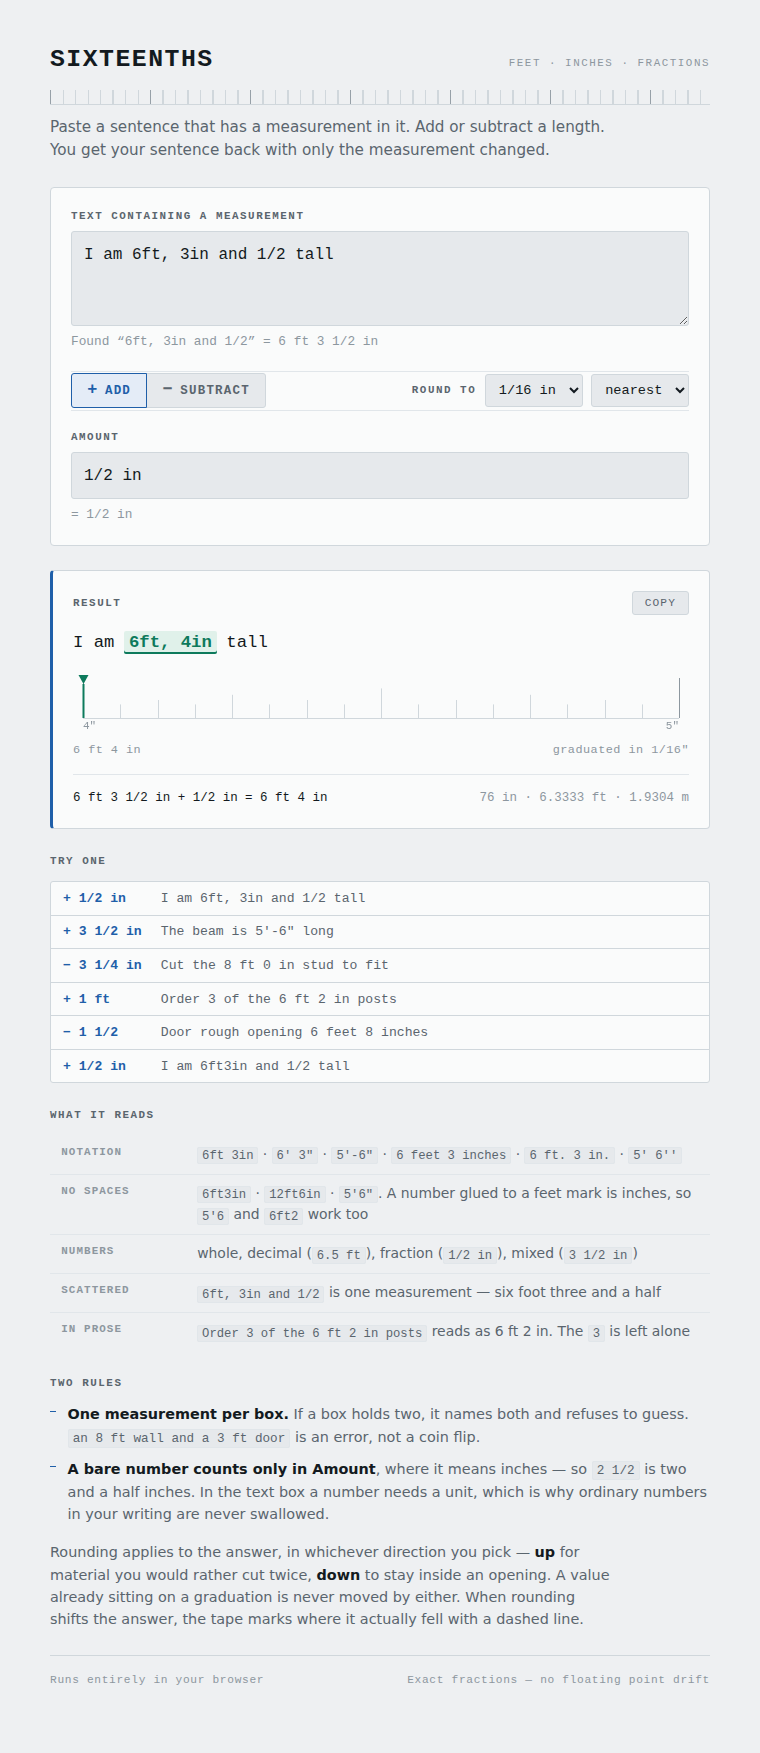
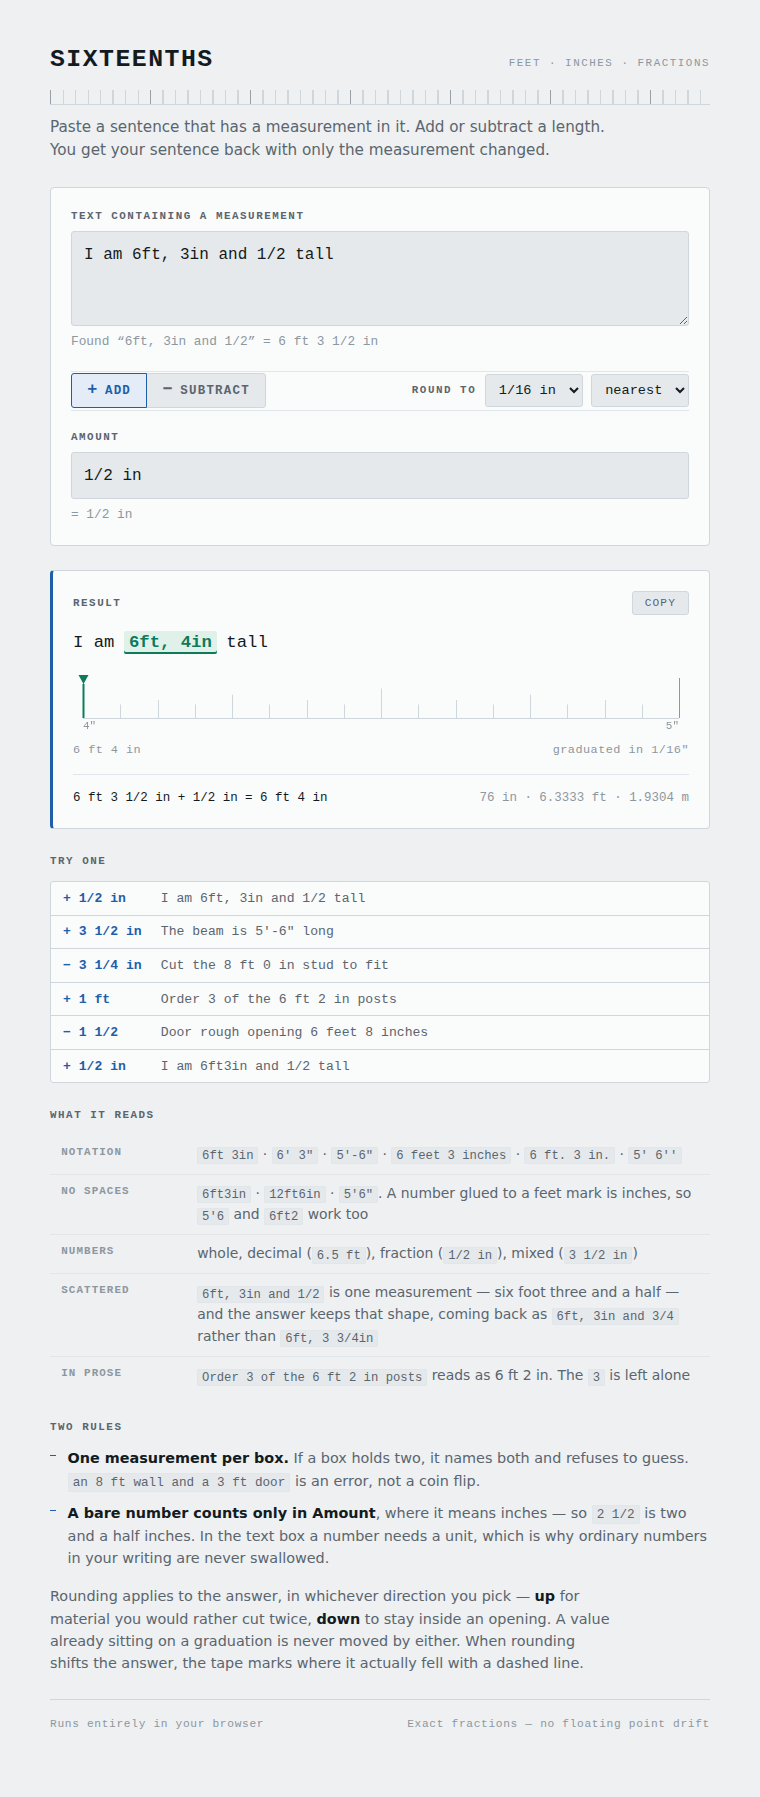
Keep a fraction written apart from its inches
"I am 6ft, 3in and 10/32 tall" came back as "I am 6ft, 3 3/4in tall". The
value was right but the wording was not: a fraction written as its own
clause was being folded into the inches.

The parser now records how that fraction was worded — the connecting text
and which part it hung off — and the formatter puts it back the same way,
so the answer reads "I am 6ft, 3in and 3/4 tall". The clause travels: it
survives a carry into the next inch, and disappears when the answer lands
on a whole inch and there is no fraction left to hang.

Limited to a fraction hung off the inches. A fraction of a foot has no
clean equivalent once the answer has moved, so that still falls back to
the plain shape.

A mixed number written inline ("3 1/2in") is not a scattered fraction and
must not grow an "and"; there is a test pinning that.

83 parser tests.

Claude-Session: https://claude.ai/code/session_01AQDCyLznMd4k5XLzppRpvu

diff --git a/lengths.js b/lengths.js
@@ -153,7 +153,7 @@
       end: token.end,
       parts: { ft: null, in: null },
       lastUnit: token.unit,
-      style: { ft: null, in: null, sep: null },
+      style: { ft: null, in: null, sep: null, tail: null },
       tokens: [token]
     };
     g.parts[token.unit] = token.value;
@@ -197,6 +197,12 @@
       if (group.style.sep === null) group.style.sep = gap;
       group.lastUnit = 'in';
     } else {
+      // A fraction written apart from its unit ("3in and 1/2"). Remember the
+      // wording so the answer can be put back the same shape instead of
+      // collapsing into "3 1/2in".
+      if (group.style.tail === null) {
+        group.style.tail = { sep: gap, on: group.lastUnit };
+      }
       group.parts[group.lastUnit] = add(group.parts[group.lastUnit], token.value);
     }
     group.end = token.end;
@@ -353,7 +359,17 @@
     var pieces = [];
     if (d.showFeet) pieces.push(renderPart(d.feet, 0, 1, ftStyle));
     if (d.whole > 0 || d.fracNum > 0 || pieces.length === 0) {
-      pieces.push(renderPart(d.whole, d.fracNum, d.fracDen, inStyle));
+      // When the source wrote its fraction apart from the inches, echo that
+      // shape back: "3in and 1/2" stays "3in and 3/4", not "3 3/4in". Only
+      // for a fraction hung off the inches; a fraction of a foot has no
+      // clean equivalent once the answer has moved.
+      var tail = style.tail;
+      if (tail && tail.on === 'in' && d.fracNum > 0) {
+        pieces.push(renderPart(d.whole, 0, 1, inStyle) +
+                    tail.sep + d.fracNum + '/' + d.fracDen);
+      } else {
+        pieces.push(renderPart(d.whole, d.fracNum, d.fracDen, inStyle));
+      }
     }
 
     return (d.negative && d.ticks !== 0 ? '-' : '') + pieces.join(sep);

diff --git a/test/lengths.test.js b/test/lengths.test.js
@@ -104,13 +104,39 @@ check('unrelated fraction ignored', inches('The 6 ft board costs 1/2 the price')
  * Adding and subtracting, preserving surrounding text
  * ---------------------------------------------------------------- */
 
+// A fraction written apart from the inches keeps that shape on the way out.
 check('add, prose preserved',
   apply('I am 6ft, 3in and 1/2 tall', '1 in'),
-  'I am 6ft, 4 1/2in tall');
+  'I am 6ft, 4in and 1/2 tall');
 
+check('scattered fraction, reported by a user',
+  apply('I am 6ft, 3in and 10/32 tall', '7/16 in'),
+  'I am 6ft, 3in and 3/4 tall');
+
+check('scattered fraction with word units',
+  apply('6 feet 3 inches and 1/4', '1/4 in'),
+  '6 feet 3 inches and 1/2');
+
+check('scattered fraction survives a carry into the next inch',
+  apply('6ft, 3in and 3/4', '1/2 in'),
+  '6ft, 4in and 1/4');
+
+// ...but when the answer lands on a whole inch there is no fraction to hang,
+// so the trailing clause simply goes away.
 check('add, collapsing the scattered fraction',
   apply('I am 6ft, 3in and 1/2 tall', '1/2 in'),
   'I am 6ft, 4in tall');
+
+// A fraction hung off the feet has no clean echo, so it falls back.
+check('fraction on feet falls back to the plain shape',
+  apply('6 ft and 1/2', '1 in'),
+  '6 ft 7 in');
+
+// A mixed number written inline is not a scattered fraction and must not
+// gain an "and".
+check('inline mixed number stays inline',
+  apply('6ft, 3 1/2in', '1/4 in'),
+  '6ft, 3 3/4in');
 
 check('add to symbol notation',
   apply('The beam is 5\'-6" long', '3 1/2 in'),

diff --git a/test/browser.smoke.js b/test/browser.smoke.js
@@ -44,6 +44,10 @@ var DIR = path.resolve(__dirname, '..');
         }
         return {
           prose: ap('I am 6ft, 3in and 1/2 tall', '1/2 in'),
+          scattered: ap('I am 6ft, 3in and 10/32 tall', '7/16 in'),
+          scatteredCarry: ap('6ft, 3in and 3/4', '1/2 in'),
+          scatteredGone: ap('I am 6ft, 3in and 1/2 tall', '1/2 in'),
+          inlineMixed: ap('6ft, 3 1/2in', '1/4 in'),
           symbol: ap('The beam is 5\'-6" long', '3 1/2 in'),
           subtract: ap('cut the 8 ft 0 in stud', '3 1/4 in', 'subtract'),
           carry: ap('6 ft 11 in', '2 in'),
@@ -74,6 +78,12 @@ var DIR = path.resolve(__dirname, '..');
       });
 
       check('prose preserved', engine.prose, 'I am 6ft, 4in tall');
+      check('scattered fraction keeps its shape', engine.scattered,
+            'I am 6ft, 3in and 3/4 tall');
+      check('scattered fraction carries', engine.scatteredCarry, '6ft, 4in and 1/4');
+      check('scattered clause drops on a whole inch', engine.scatteredGone,
+            'I am 6ft, 4in tall');
+      check('inline mixed number stays inline', engine.inlineMixed, '6ft, 3 3/4in');
       check('symbol notation echoed', engine.symbol, 'The beam is 5\'-9 1/2" long');
       check('subtract', engine.subtract, 'cut the 7 ft 8 3/4 in stud');
       check('carry into feet', engine.carry, '7 ft 1 in');

diff --git a/index.html b/index.html
@@ -107,7 +107,9 @@
         </tr>
         <tr>
           <th scope="row">Scattered</th>
-          <td><code>6ft, 3in and 1/2</code> is one measurement — six foot three and a half</td>
+          <td><code>6ft, 3in and 1/2</code> is one measurement — six foot three and a
+              half — and the answer keeps that shape, coming back as
+              <code>6ft, 3in and 3/4</code> rather than <code>6ft, 3 3/4in</code></td>
         </tr>
         <tr>
           <th scope="row">In prose</th>

diff --git a/README.md b/README.md
@@ -34,7 +34,7 @@ already have and edits it in place.
 | Notations | `6ft 3in`, `6' 3"`, `5'-6"`, `6 feet 3 inches`, `6 ft. 3 in.`, `5’ 6”`, `5' 6''` |
 | Without spaces | `6ft3in`, `12ft6in`, `5'6"` — and a number glued to a feet mark is inches, so `5'6` and `6ft2` work too |
 | Numbers | integers, decimals (`6.5 ft`, `.5 in`), fractions (`1/2 in`), mixed (`3 1/2 in`) |
-| Scattered parts | `6ft, 3in and 1/2` reads as one measurement of 6&nbsp;ft&nbsp;3½&nbsp;in |
+| Scattered parts | `6ft, 3in and 1/2` reads as one measurement of 6&nbsp;ft&nbsp;3½&nbsp;in, and the answer keeps that shape — `6ft, 3in and 3/4`, not `6ft, 3 3/4in` |
 | Surrounding prose | `Order 3 of the 6 ft 2 in posts` reads as 6&nbsp;ft&nbsp;2&nbsp;in — the `3` is left alone |
 
 Two rules keep it honest:
